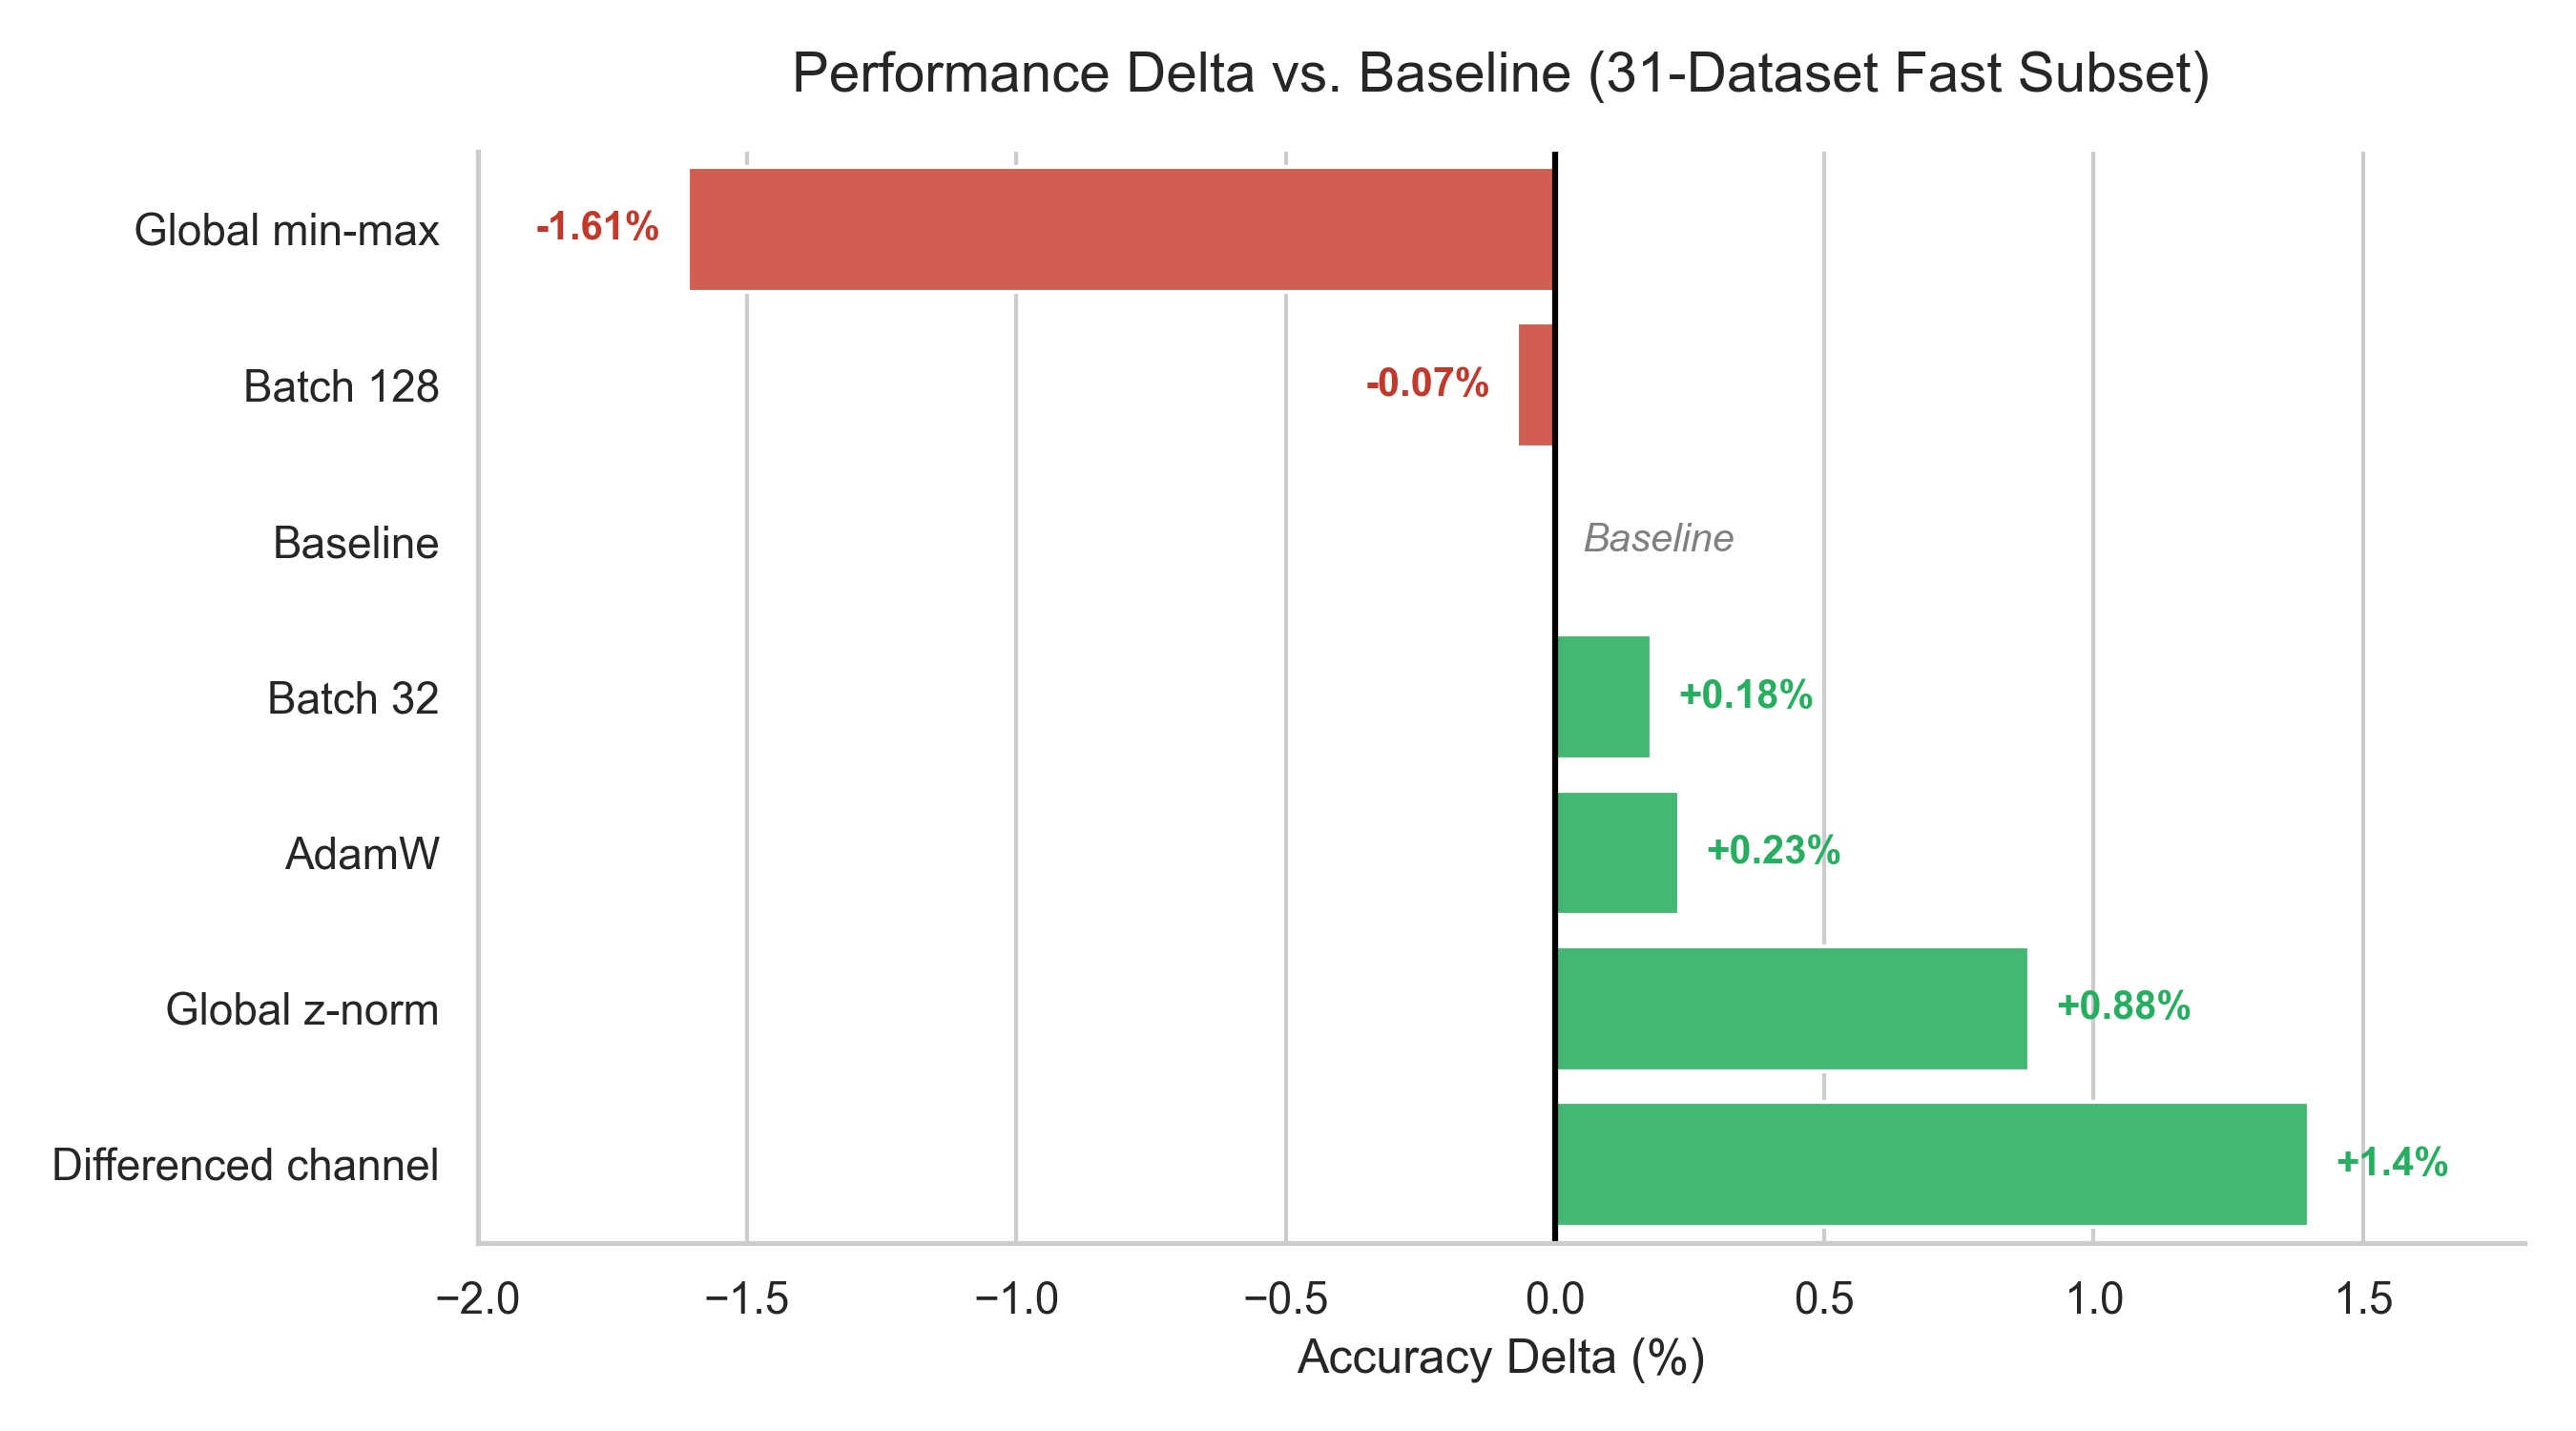
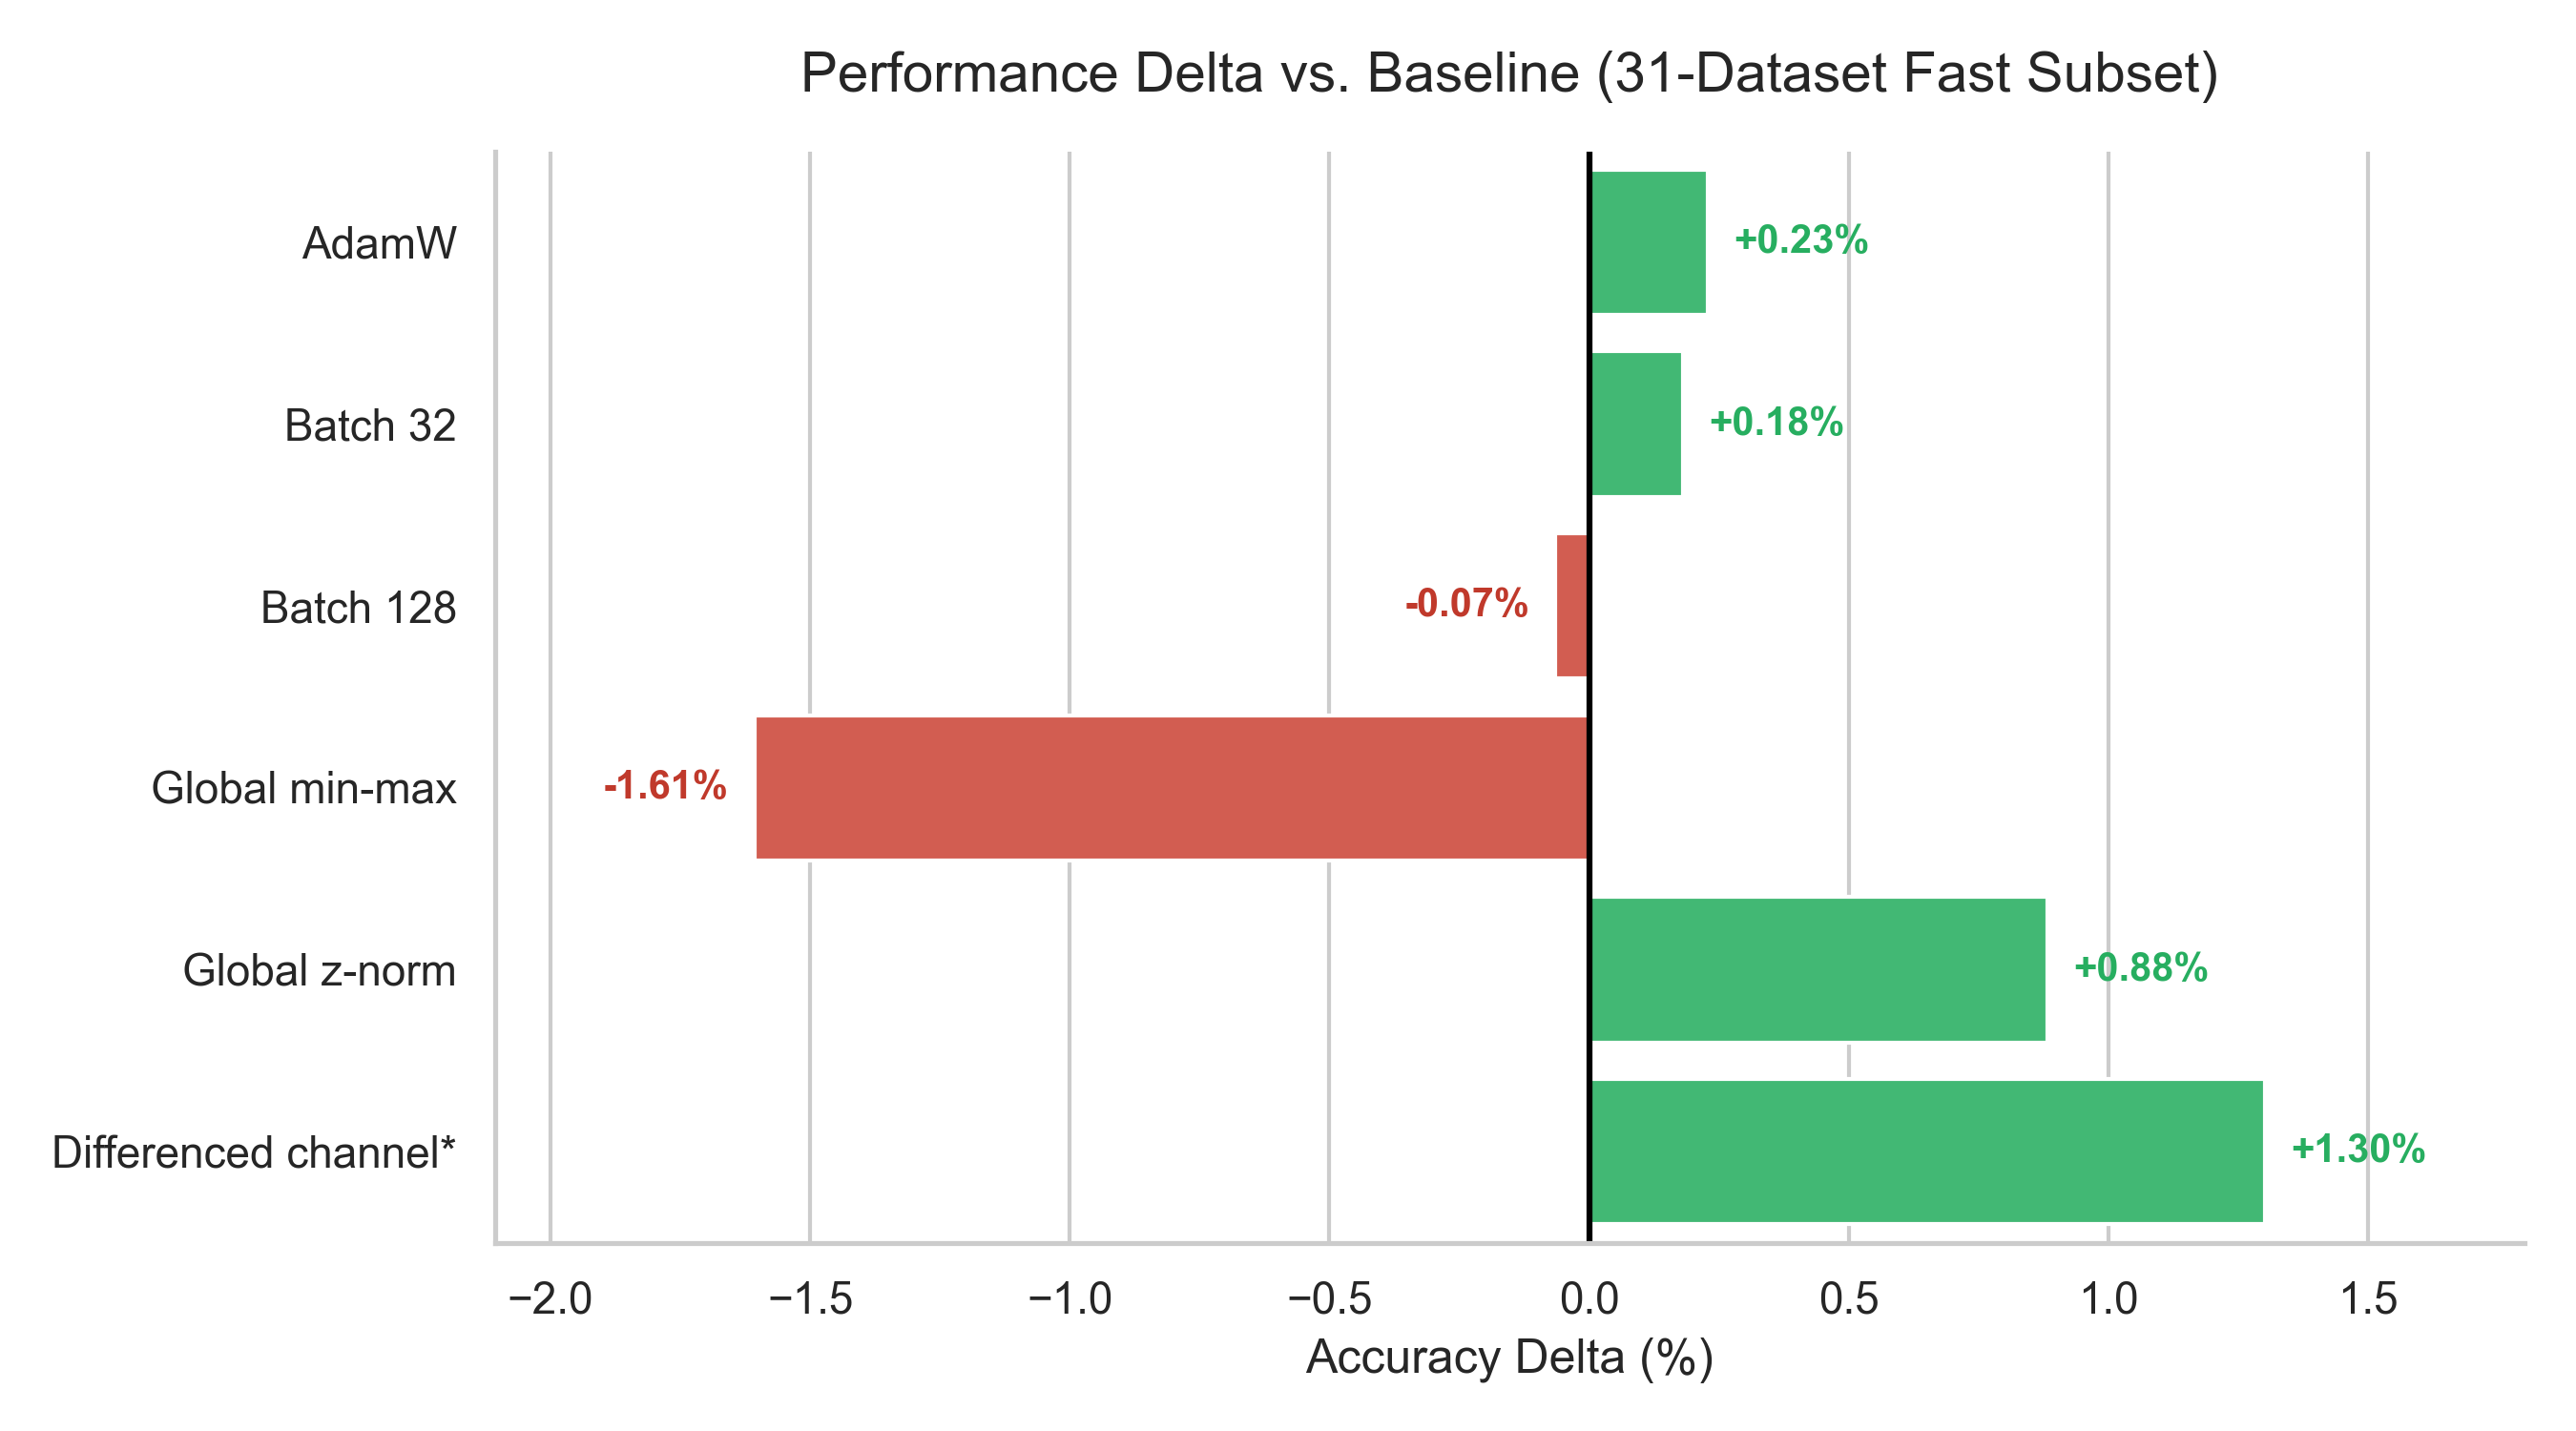
update report

diff --git a/generate_plots.py b/generate_plots.py
@@ -3,6 +3,7 @@ import matplotlib.pyplot as plt
 import seaborn as sns
 import numpy as np
 import os
+import glob
 
 # Set global aesthetics using modern styling
 sns.set_theme(style="whitegrid", rc={"axes.spines.top": False, "axes.spines.right": False})
@@ -10,81 +11,60 @@ sns.set_theme(style="whitegrid", rc={"axes.spines.top": False, "axes.spines.righ
 plot_dir = r"c:\Users\xxerp\Desktop\Career\Proyectos\GitHub\LITE\plots"
 os.makedirs(plot_dir, exist_ok=True)
 
-# ---------------------------------------------------------
-# 1. Ensemble Size Effect
-# ---------------------------------------------------------
-df_ens = pd.read_csv("results_ensemble_study.csv")
-ens_cols = [c for c in df_ens.columns if c.startswith('LITETime-')]
-ens_means = df_ens[ens_cols].mean()
-n_members = np.arange(1, 11)
+exp_dir = r"c:\Users\xxerp\Desktop\Career\Proyectos\GitHub\LITE\experimentation_results"
 
-plt.figure(figsize=(8, 5))
-sns.lineplot(x=n_members, y=ens_means.values, marker='o', color='#2b5c8f', linewidth=2.5, markersize=8)
-plt.title("Effect of Ensemble Size on Mean Accuracy (128 Datasets)", fontsize=14, pad=15)
-plt.xlabel("Ensemble Size (N)", fontsize=12)
-plt.ylabel("Mean Accuracy", fontsize=12)
-plt.xticks(n_members)
-plt.axvline(x=5, color='gray', linestyle='--', alpha=0.7)
-plt.text(5.2, ens_means.values.min() + 0.002, "Default N=5\n(Diminishing Returns)", color='gray', fontsize=10)
-plt.tight_layout()
-plt.savefig(os.path.join(plot_dir, "ensemble_size_effect.png"), dpi=300)
-plt.close()
+# Mapping human-readable names to file names
+configs = {
+    'Baseline': 'fast_subset_baseline.csv',
+    'AdamW': 'adamw_results.csv',
+    'Batch 32': 'batch_32.csv',
+    'Batch 128': 'batch_128.csv',
+    'Global min-max': 'global_min_max.csv',
+    'Global z-norm': 'global_znormalization.csv',
+    'Differenced channel*': 'derived_input_channel.csv'
+}
 
+data = {}
+for name, file in configs.items():
+    df = pd.read_csv(os.path.join(exp_dir, file))
+    df['dataset_clean'] = df['dataset'].astype(str).str.strip().str.upper()
+    avg_row = df[df['dataset_clean'] == 'AVERAGE']
+    if not avg_row.empty:
+        lite_mean = avg_row['LITE-mean'].values[0]
+        litetime = avg_row['LITETime'].values[0]
+        time_mean = avg_row['Training Time (s)-mean'].values[0]
+        data[name] = {'LITE': lite_mean, 'LITETime': litetime, 'Time': time_mean, 'df': df}
 
-# ---------------------------------------------------------
-# 2. Multivariate Methods Comparison
-# ---------------------------------------------------------
-df_mv = pd.read_csv("results_multivariate.csv")
-mv_means = df_mv.drop(columns=['dataset']).mean().sort_values(ascending=False)
+# Extract baseline metrics
+baseline_lite = data['Baseline']['LITE']
+baseline_litetime = data['Baseline']['LITETime']
 
-plt.figure(figsize=(10, 6))
-colors = ['#1f77b4' if m == 'ConvTran' else '#ff7f0e' if 'LITE' in m else '#aec7e8' for m in mv_means.index]
-ax = sns.barplot(x=mv_means.values, y=mv_means.index, palette=colors)
-plt.title("Mean Accuracy on 30 Multivariate Datasets", fontsize=14, pad=15)
-plt.xlabel("Mean Accuracy", fontsize=12)
-plt.ylabel("")
-plt.xlim(0.65, 0.76)
-
-# Add value labels
-for i, v in enumerate(mv_means.values):
-    ax.text(v + 0.001, i, f"{v:.4f}", va='center', fontsize=10)
-
-plt.tight_layout()
-plt.savefig(os.path.join(plot_dir, "multivariate_comparison.png"), dpi=300)
-plt.close()
-
+print("--- TABLE DATA FOR LATEX ---")
+for name in configs.keys():
+    delta_lite = (data[name]['LITE'] - baseline_lite) * 100
+    delta_litetime = (data[name]['LITETime'] - baseline_litetime) * 100
+    delta_str_lite = f"+{delta_lite:.2f}\\%" if delta_lite > 0 else f"{delta_lite:.2f}\\%"
+    delta_str_litetime = f"+{delta_litetime:.2f}\\%" if delta_litetime > 0 else f"{delta_litetime:.2f}\\%"
+    if name == 'Baseline':
+        delta_str_lite = "---"
+        delta_str_litetime = "---"
+        
+    print(f"{name} & {data[name]['LITE']:.4f} & {delta_str_lite} & {data[name]['LITETime']:.4f} & {delta_str_litetime} & {data[name]['Time']:.1f} \\\\")
 
 # ---------------------------------------------------------
-# 3. Univariate Benchmarks Boxplot
+# 1. Performance Delta Plot (accuracy_comparison.png)
 # ---------------------------------------------------------
-df_uni = pd.read_csv("results.csv")
-# Melt for seaborn boxplot
-df_uni_melted = df_uni.melt(id_vars=['dataset'], var_name='Method', value_name='Accuracy')
-
-# Calculate means to sort the boxplot
-uni_means = df_uni.drop(columns=['dataset']).mean().sort_values(ascending=False)
-df_uni_melted['Method'] = pd.Categorical(df_uni_melted['Method'], categories=uni_means.index, ordered=True)
-
-plt.figure(figsize=(10, 6))
-sns.boxplot(x='Accuracy', y='Method', data=df_uni_melted, palette="Set2", showfliers=False)
-plt.title("Accuracy Distribution across 128 UCR Datasets", fontsize=14, pad=15)
-plt.xlabel("Accuracy", fontsize=12)
-plt.ylabel("")
-plt.xlim(0.5, 1.0)
-plt.tight_layout()
-plt.savefig(os.path.join(plot_dir, "univariate_boxplot.png"), dpi=300)
-plt.close()
-
-
-# ---------------------------------------------------------
-# 4. Improvement Experiments Delta (Replacing accuracy_comparison.png)
-# ---------------------------------------------------------
-configs = ['Global min-max', 'Batch 128', 'Baseline', 'Batch 32', 'AdamW', 'Global z-norm', 'Differenced channel']
-deltas = [-1.61, -0.07, 0.0, 0.18, 0.23, 0.88, 1.40]
+deltas = []
+config_names = []
+for name in configs.keys():
+    if name == 'Baseline': continue
+    diff = (data[name]['LITE'] - baseline_lite) * 100
+    deltas.append(diff)
+    config_names.append(name)
 
 plt.figure(figsize=(9, 5))
-c_map = ['#e74c3c' if d < 0 else '#95a5a6' if d == 0 else '#2ecc71' for d in deltas]
-ax = sns.barplot(x=deltas, y=configs, palette=c_map)
+c_map = ['#e74c3c' if d < 0 else '#2ecc71' for d in deltas]
+ax = sns.barplot(x=deltas, y=config_names, palette=c_map)
 
 plt.title("Performance Delta vs. Baseline (31-Dataset Fast Subset)", fontsize=14, pad=15)
 plt.xlabel("Accuracy Delta (%)", fontsize=12)
@@ -93,15 +73,67 @@ plt.axvline(x=0, color='black', linewidth=1.5)
 
 for i, v in enumerate(deltas):
     if v < 0:
-        ax.text(v - 0.05, i, f"{v}%", va='center', ha='right', fontsize=10, color='#c0392b', fontweight='bold')
-    elif v > 0:
-        ax.text(v + 0.05, i, f"+{v}%", va='center', ha='left', fontsize=10, color='#27ae60', fontweight='bold')
+        ax.text(v - 0.05, i, f"{v:.2f}%", va='center', ha='right', fontsize=10, color='#c0392b', fontweight='bold')
     else:
-        ax.text(v + 0.05, i, f"Baseline", va='center', ha='left', fontsize=10, color='gray', style='italic')
+        ax.text(v + 0.05, i, f"+{v:.2f}%", va='center', ha='left', fontsize=10, color='#27ae60', fontweight='bold')
 
-plt.xlim(-2.0, 1.8)
+plt.xlim(min(deltas) - 0.5, max(deltas) + 0.5)
 plt.tight_layout()
 plt.savefig(os.path.join(plot_dir, "accuracy_comparison.png"), dpi=300)
 plt.close()
 
-print("Plots generated successfully in the 'plots' directory.")
+# ---------------------------------------------------------
+# 2. Time vs Accuracy Plot (time_vs_accuracy.png)
+# ---------------------------------------------------------
+plt.figure(figsize=(9, 6))
+
+times = [data[name]['Time'] for name in configs.keys()]
+accuracies = [data[name]['LITE'] for name in configs.keys()]
+
+sns.scatterplot(x=times, y=accuracies, s=150, color='#3498db', edgecolor='black', zorder=5)
+
+for name in configs.keys():
+    plt.annotate(
+        name,
+        (data[name]['Time'], data[name]['LITE']),
+        xytext=(8, -5),
+        textcoords='offset points',
+        fontsize=10,
+        bbox=dict(boxstyle="round,pad=0.3", fc="white", ec="gray", lw=0.5, alpha=0.8)
+    )
+
+plt.title("Accuracy vs. Training Time Trade-off", fontsize=14, pad=15)
+plt.xlabel("Mean Training Time per Dataset (s)", fontsize=12)
+plt.ylabel("Mean Accuracy (LITE)", fontsize=12)
+plt.grid(True, linestyle='--', alpha=0.6, zorder=0)
+plt.tight_layout()
+plt.savefig(os.path.join(plot_dir, "time_vs_accuracy.png"), dpi=300)
+plt.close()
+
+# ---------------------------------------------------------
+# 3. Dataset Improvement Plot (dataset_improvement.png)
+# ---------------------------------------------------------
+df_base = data['Baseline']['df']
+df_adamw = data['AdamW']['df']
+
+# exclude AVERAGE row
+df_base = df_base[df_base['dataset'] != 'AVERAGE']
+df_adamw = df_adamw[df_adamw['dataset'] != 'AVERAGE']
+
+df_joined = pd.merge(df_base, df_adamw, on='dataset', suffixes=('_base', '_adamw'))
+df_joined['Improvement'] = (df_joined['LITE-mean_adamw'] - df_joined['LITE-mean_base']) * 100
+df_joined = df_joined.sort_values(by='Improvement', ascending=False)
+
+plt.figure(figsize=(12, 6))
+c_map_dataset = ['#2ecc71' if x > 0 else ('#e74c3c' if x < 0 else '#95a5a6') for x in df_joined['Improvement']]
+sns.barplot(x='dataset', y='Improvement', data=df_joined, palette=c_map_dataset)
+plt.title("Per-dataset Accuracy Improvement of AdamW vs. Baseline", fontsize=14, pad=15)
+plt.xlabel("", fontsize=12)
+plt.ylabel("Accuracy Improvement (%)", fontsize=12)
+plt.xticks(rotation=90, fontsize=9)
+plt.axhline(y=0, color='black', linewidth=1)
+plt.tight_layout()
+plt.savefig(os.path.join(plot_dir, "dataset_improvement.png"), dpi=300)
+plt.close()
+
+print("Dynamic plots generated successfully!")

diff --git a/docs/report/conference_101719.tex b/docs/report/conference_101719.tex
@@ -257,7 +257,7 @@ Batch 32 & 0.8968 & +0.18\% & 0.9018 & $-$0.13\% & 270.9 \\
 Batch 128 & 0.8943 & $-$0.07\% & 0.9012 & $-$0.19\% & 159.6 \\
 Global min-max & 0.8789 & $-$1.61\% & 0.8939 & $-$0.92\% & 189.5 \\
 Global z-norm & 0.9038 & +0.88\% & 0.9092 & +0.61\% & 189.1 \\
-\textbf{Differenced channel*} & --- & \textbf{+1.40\%} & --- & \textbf{+1.40\%} & --- \\
+\textbf{Differenced channel*} & \textbf{0.9080} & \textbf{+1.30\%} & \textbf{0.9171} & \textbf{+1.40\%} & 191.8 \\
 %% TODO: Uncomment when combined experiment is run
 %% AdamW + z-norm & \textbf{[TODO]} & \textbf{[TODO]} & \textbf{[TODO]} & \textbf{[TODO]} & \textbf{[TODO]} \\
 \bottomrule
@@ -265,27 +265,23 @@ Global z-norm & 0.9038 & +0.88\% & 0.9092 & +0.61\% & 189.1 \\
 }
 \end{table}
 
-\begin{figure*}[t]
-    \centering
-    \begin{minipage}[t]{0.32\textwidth}
-        \centering
-        \includegraphics[width=\linewidth]{../../plots/accuracy_comparison.png}
-        \caption{Performance delta versus baseline (fast subset) across improvement configurations, showcasing the significant gain from the differenced channel.}
-        \label{fig:accuracy_comparison}
-    \end{minipage}\hfill
-    \begin{minipage}[t]{0.32\textwidth}
-        \centering
-        \includegraphics[width=\linewidth]{../../plots/dataset_improvement.png}
-        \caption{Per-dataset accuracy improvement of AdamW over baseline.}
-        \label{fig:dataset_improvement}
-    \end{minipage}\hfill
-    \begin{minipage}[t]{0.32\textwidth}
-        \centering
-        \includegraphics[width=\linewidth]{../../plots/time_vs_accuracy.png}
-        \caption{Accuracy vs.\ training time trade-off across configurations.}
-        \label{fig:time_vs_accuracy}
-    \end{minipage}
-\end{figure*}
+\begin{figure}[htbp]
+    \centerline{\includegraphics[width=\columnwidth]{../../plots/accuracy_comparison.png}}
+    \caption{Performance delta versus baseline (fast subset) across improvement configurations, showcasing the significant gain from the differenced channel.}
+    \label{fig:accuracy_comparison}
+\end{figure}
+
+\begin{figure}[htbp]
+    \centerline{\includegraphics[width=\columnwidth]{../../plots/dataset_improvement.png}}
+    \caption{Per-dataset accuracy improvement of AdamW over baseline.}
+    \label{fig:dataset_improvement}
+\end{figure}
+
+\begin{figure}[htbp]
+    \centerline{\includegraphics[width=\columnwidth]{../../plots/time_vs_accuracy.png}}
+    \caption{Accuracy vs.\ training time trade-off across configurations.}
+    \label{fig:time_vs_accuracy}
+\end{figure}
 
 \subsection{Ensemble Size Analysis}
 